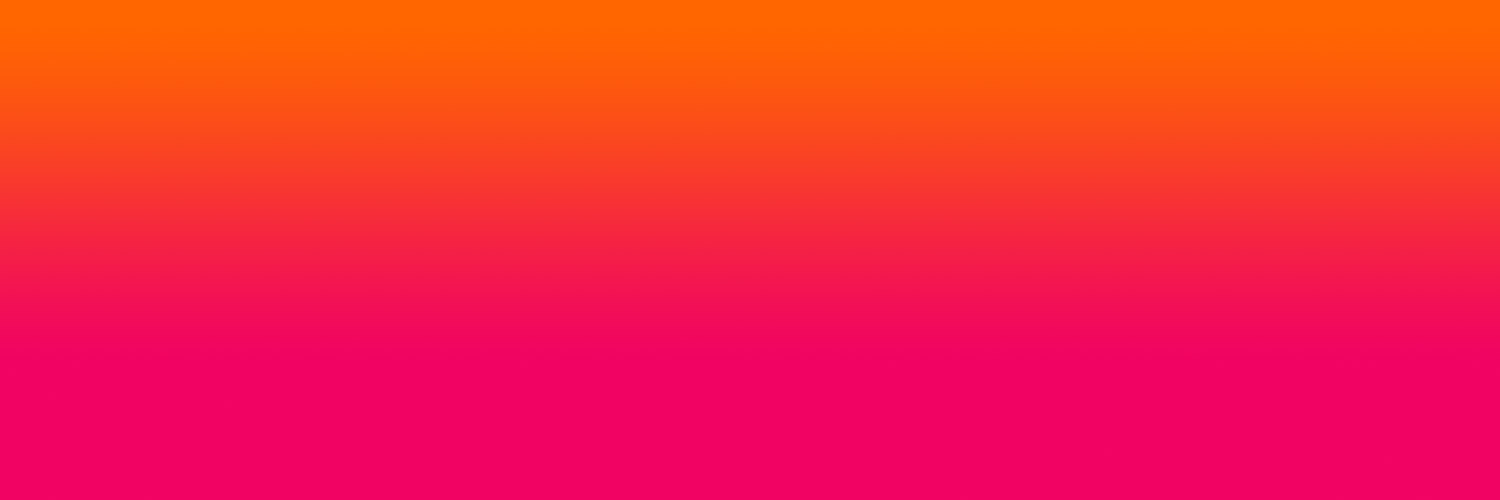
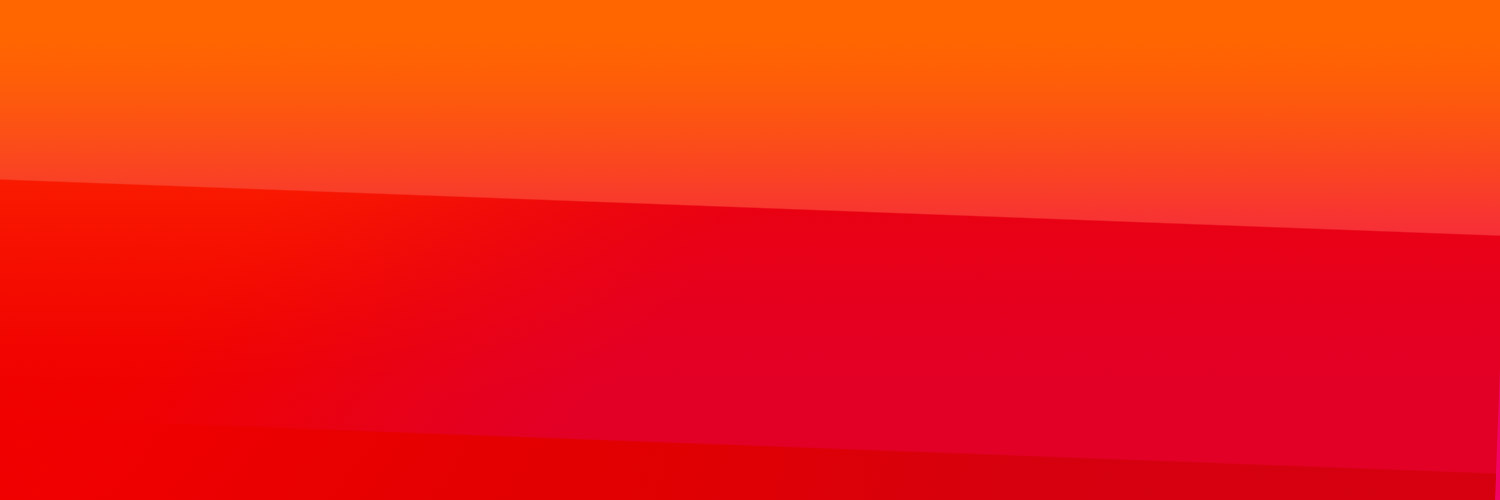
Update css code with right bg-color and change image again.

diff --git a/assets/css/main.css b/assets/css/main.css
@@ -185,7 +185,7 @@
 		transform: translate3d(0,0,0);
 	/* Set your background with this */
 
-		background: #071727 url("images/background-ahref-draft.jpg") bottom left;
+		background: #ff6600 url("images/background-ahref-draft.jpg") bottom left;
 		background-repeat: repeat-x;
 		height: 100%;
 		left: 0;
